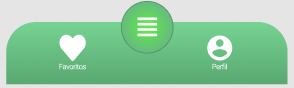
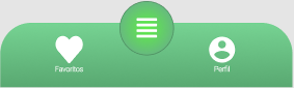
#127 Adicionando Navbar do produtor

diff --git a/docs/Guia_de_estilo_e_identidade_visual.md b/docs/Guia_de_estilo_e_identidade_visual.md
@@ -7,6 +7,7 @@
 |08/03/2021|1.0|Criação do documento e adição da introdução| Carlos Eduardo e Matheus Calixto|
 |08/03/2021|1.1|Adição do manual de identidade, justificativas, fontes e paleta de cores|Carlos Eduardo e Matheus Calixto|
 |10/03/2021|1.1.1|Adição tópico componentes|Carlos Eduardo e Matheus Calixto|
+|27/03/2021|1.2|Adição da navbar do produtor| Brenno|
 
 ## 1 Introdução
 <p align = "justify"> &emsp;&emsp; Este documento trata acerca do guia de estilo e manual de identdade visual do projeto Hortum </p>
@@ -74,6 +75,11 @@ Cores escolhidas baseadas no objetivo do aplicativo de anunciar produtos de hort
 
 #### 5.3 Navbar
 
-- **Para celular**
+- **Comprador**
 
 ![](img/navbar.png)
+
+- **Produtor**
+
+![](img/navbarprodutor.png)
+
